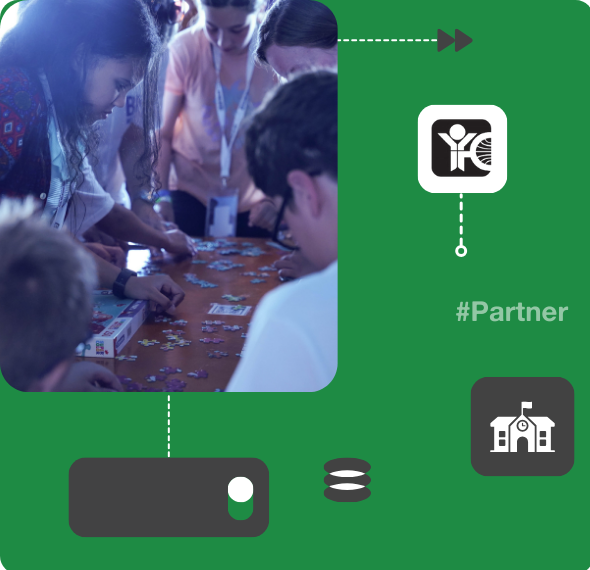
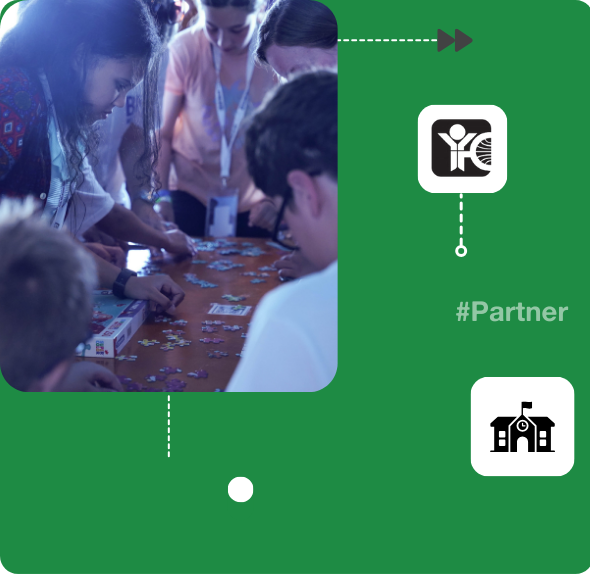
fixed image errors

diff --git a/index.html b/index.html
@@ -16,7 +16,7 @@
 		<div class="announcement center">
 			<div class="content center col">
 				<h1>Big Weekend Registrations are currently full!</h1>
-				<p>All further registrations will still be accepted and put on a waiting list - as spaces become available, you will be contacted, so make sure to register!</p>
+				<p>All further registrations will still be accepted and put on a waiting list. As spaces become available you will be contacted, so make sure to register!</p>
 				<button class="link-button" onclick="document.querySelector('.announcement').style.display = 'none'">Close</button>
 			</div>
 		</div>
@@ -73,7 +73,7 @@
 				<div class="info">
 					<ion-icon name="play-forward"></ion-icon>
 					<h1>When, where & how much?</h1>
-					<p>The event will take place at the <b>Ramada Hotel & Apartments</b> in <b>Ajman</b> from <b>November 1 to 3, 2024</b>. The registration fee is <b>550 AED</b>, which includes accommodation for two nights (four individuals sharing a room), all meals (six in total), a themed Big Weekend T-shirt, and a Big Weekend merchandise bag.</p>
+					<p>The event will take place at the <b>Ramada Hotel & Apartments</b> in <b>Ajman</b> from <b>November 1 to 3, 2024</b>. The registration fee is <b>550 AED</b> (check in with your youth leader!), which includes accommodation for two nights (four individuals sharing a room), all meals (six in total), a themed Big Weekend T-shirt, and a Big Weekend merchandise bag.</p>
 					<p>The schedule begins on Friday, November 1, with check-in at 4:30 PM, followed by dinner at 6:00 PM and the program commencing at 7:00 PM. The event will conclude on Sunday, November 3, at 1:30 PM.</p>
 					<a target="_blank" href="https://www.wyndhamhotels.com/en-uk/ramada/ajman-united-arab-emirates/ramada-hotel-and-suites-ajman/overview?gad_source=1&gclid=Cj0KCQjwrp-3BhDgARIsAEWJ6Sy4KFMZ-5qcHiDiXKDV5xEe8PDYdemSIl-QQqzL4wbfZLRm9aaUWZYaAtEAEALw_wcB&gclsrc=aw.ds" class="link-button"><ion-icon name="business"></ion-icon>Click to check out the venue!</a>
 				</div>
@@ -111,28 +111,24 @@
 			<div class="speaker-info">
 				<div class="speaker">
 					<div class="heading">
-						<ion-icon name="ellipse" style="color: #006423"></ion-icon>
 						<h2>Chris Allen, Co-Ordinator for Alpha Youth Gulf</h2>
 					</div>
 					<p>Chris hails from the UK but has been soaking up the sun in the Middle East for nearly ten years! With a treasure trove of experience in youth projects, he's on a mission to craft spaces where the next generation can be recharged, grounded, and ready to shine bright!</p>
 				</div>
 				<div class="speaker">
 					<div class="heading">
-						<ion-icon name="ellipse" style="color: #424243"></ion-icon>
 						<h2>Arno Alajoki, Director of Youth Unlimited / UAEYFC</h2>
 					</div>
 					<p>Arno hails from the snowy wonderland of Finland and rocks the title of National Director of UAE YFC! With a heart full of passion, he’s on a mission to help young folks uncover their life’s purpose and unleash their inner talents. A lifelong learner at heart, he can’t resist sharing all the  knowledge he picks up along the way!</p>
 				</div>
 				<div class="speaker">
 					<div class="heading">
-						<ion-icon name="ellipse" style="color: #52df83"></ion-icon>
 						<h2>Elizabeth Shehata, Young Adults Ministry Leader at Fellowship Dubai</h2>
 					</div>
 					<p>Meet Elizabeth, an Aussie-Egyptian with a degree in international business and corporate experience. Now focused on uplifting youth, she uses her event-planning skills to inspire young adults to live purposefully. In her free time, she enjoys table tennis, basketball, clean comedy, and puzzles!</p>
 				</div>
 				<div class="speaker">
 					<div class="heading">
-						<ion-icon name="ellipse" style="color: #898989"></ion-icon>
 						<h2>Frank Meyer, Youth Ministry Pastor at Fellowship Dubai</h2>
 					</div>
 					<p>Frank's been the go-to guru for teens in the UAE since 2011, masterfully guiding them through the wild ride of becoming young adults! He’s all about sparking those dreams while sprinkling in some good ol' Gospel inspiration. Talk about a motivational leader!</p>
@@ -237,6 +233,7 @@
 			<img src="images/random-pics.png">
 			<div class="right center col">
 				<h1>Key Links</h1>
+				<h2 class="banner">SPACES ARE FULL - NEW SIGN UPS WILL BE ADDED TO THE WAITING LIST AND CONTACTED ON AVAILABILITY</h2>
 				<div class="section center">
 					<h2>Registration</h2>
 					<a target="_blank" href="https://docs.google.com/forms/d/e/1FAIpQLSfE9dY4pIaVx25hiF_W0efeWZmTRprKBY-EmrS35GsVdFVsfA/viewform">Registration for Students</a>

diff --git a/styles/index.css b/styles/index.css
@@ -298,20 +298,20 @@ nav {
 
 	.images {
 		width: 45%;
-		height: fit-content;
+		height: 60vh;
 
 		display: grid;
 		grid-template-columns: 50% 50%;
-		grid-row: auto;
+		row-gap: 3rem;
 		justify-items: center;
 	
 		img {
-			border-radius: 4rem;
-			max-width: 80%;
+			border-radius: 20%;
+			width: auto;
 			height: 100%;
 		}
 
-		@media screen and (max-width: 1400px) {
+		@media screen and (max-width: 1500px) {
 			grid-template-columns: auto;
 			row-gap: 1rem;
 
@@ -636,6 +636,14 @@ nav {
 		h1 {
 			text-align: center;
 		}
+
+		.banner {
+			padding: 1rem;
+			text-align: center;
+			background-color: rgb(209, 72, 72);
+			color: white;
+		}
+	
 
 		.section {
 			flex-wrap: wrap;

diff --git a/styles/styles.css b/styles/styles.css
@@ -84,7 +84,8 @@ a:hover {
 	background-color: rgba(0, 0, 0, 0.4);
 
 	.center {
-		min-width: 300px;
+		box-sizing: border-box;
+		min-width: 250px;
 		max-width: 700px;
 		padding: 4rem;
 		border-radius: 20px;
@@ -100,7 +101,11 @@ a:hover {
 		
 		h1 {
 			text-align: center;
-			font-size: 64px;
+			font-size: 44px;
+		}
+
+		p {
+			font-size: 16px;
 		}
 
 		button {
@@ -114,6 +119,10 @@ a:hover {
 		button:hover {
 			background-color: var(--green);
 			transform: scale(1.05);
+		}
+
+		@media screen and (max-width: 1400px) {
+			padding: 1rem;
 		}
 	}
 }
